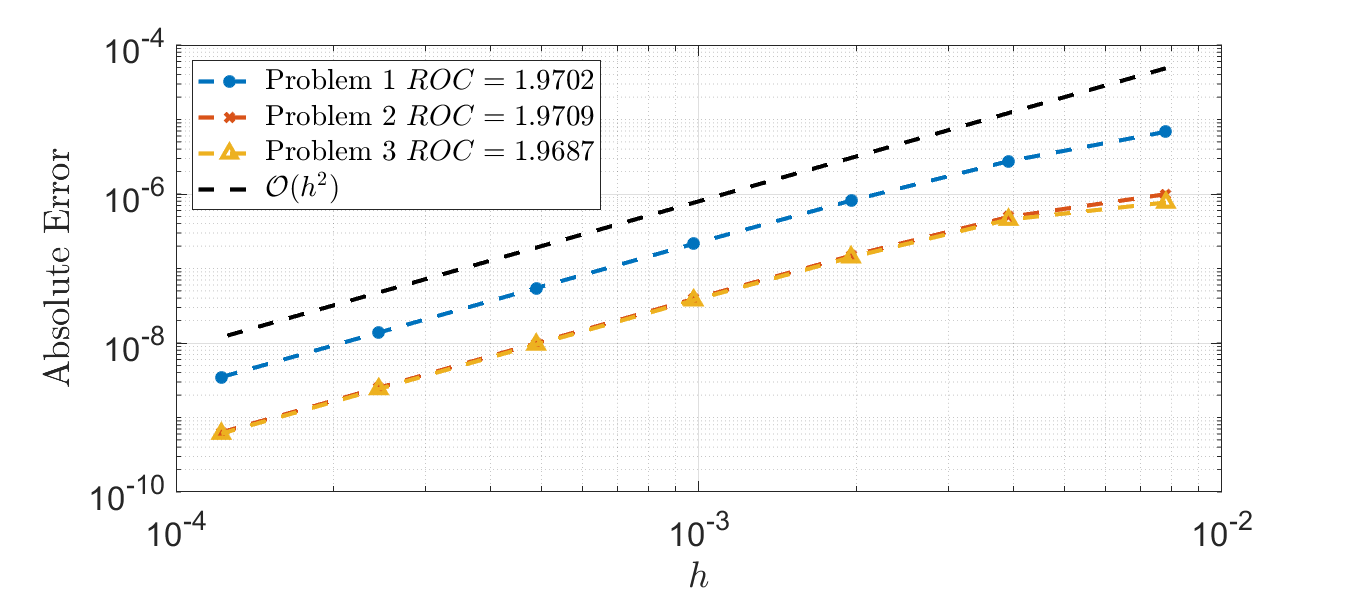
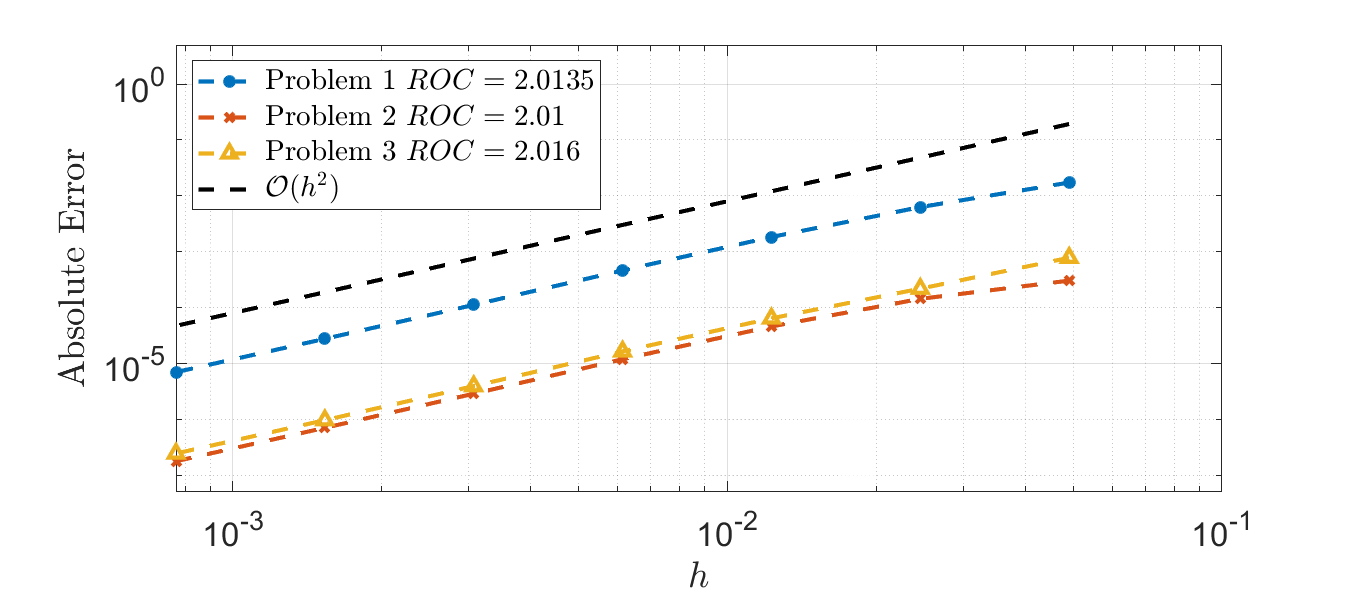
Updated full multigrid convergence plot

diff --git a/openmp/plot_convergence.m b/openmp/plot_convergence.m
@@ -20,13 +20,14 @@ loglog(prob2.spacing,prob2.abs_err,'x--','DisplayName',...
     strcat(['Problem 2 $ROC=',num2str(beta2),'$']),'linewidth',2)
 loglog(prob3.spacing,prob3.abs_err,'^--','DisplayName',...
     strcat(['Problem 3 $ROC=',num2str(beta3),'$']),'linewidth',2)
-loglog(prob1.spacing,0.8*prob1.spacing.^2,'k--',...
+loglog(prob1.spacing,80*prob1.spacing.^2,'k--',...
     'DisplayName','$\mathcal{O}(h^2)$','linewidth',2)
 hold off
 grid()
 legend('interpreter','latex','fontsize',14,'location','nw')
 xlabel('$h$','interpreter','latex','fontsize',20)
 ylabel('Absolute Error','interpreter','latex','fontsize',20)
+ylim([5e-8 5])
 set(gca,'FontSize',16)
 saveas(gcf,'./figures/mg_convergence.png')
 fig2pdf(gca,'picmcc/mg_convergence.pdf')
